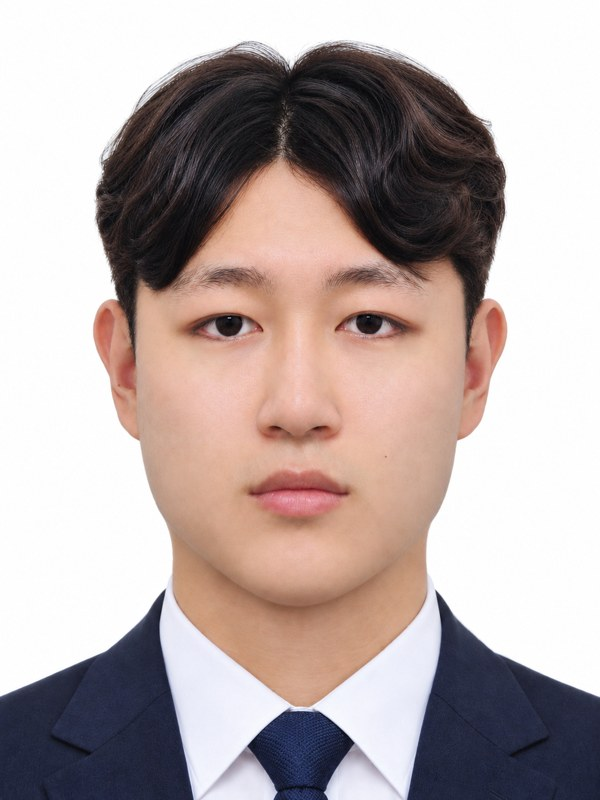
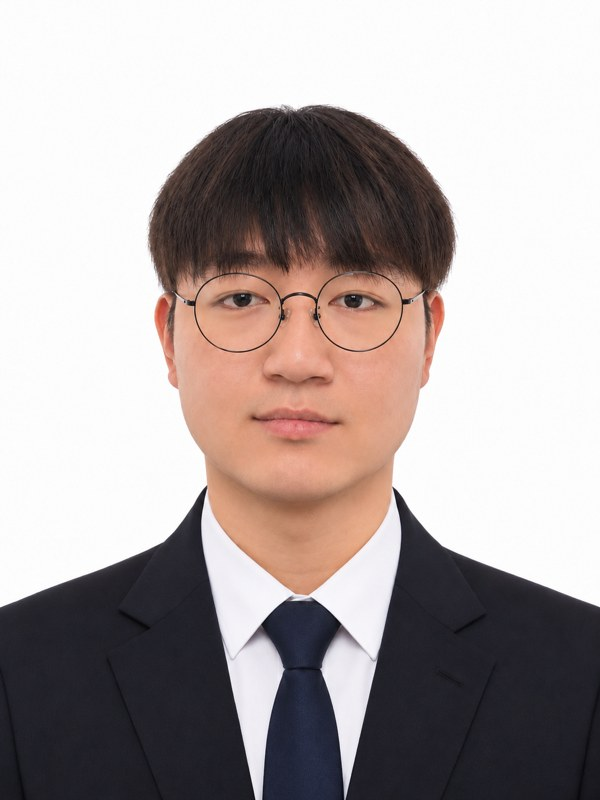
Replace Woo Jin Lim's photo
Claude-Session: https://claude.ai/code/session_01KxWRM8uRCEetmZxq2TgqD5

diff --git a/members.html b/members.html
@@ -610,7 +610,7 @@
 
                 <article class="member-card">
 
-                    <img src="img/Woo Jin Lim.jpg?v=2"
+                    <img src="img/Woo Jin Lim.jpg?v=3"
                          alt="임우진 사진"
                          loading="lazy">
 
